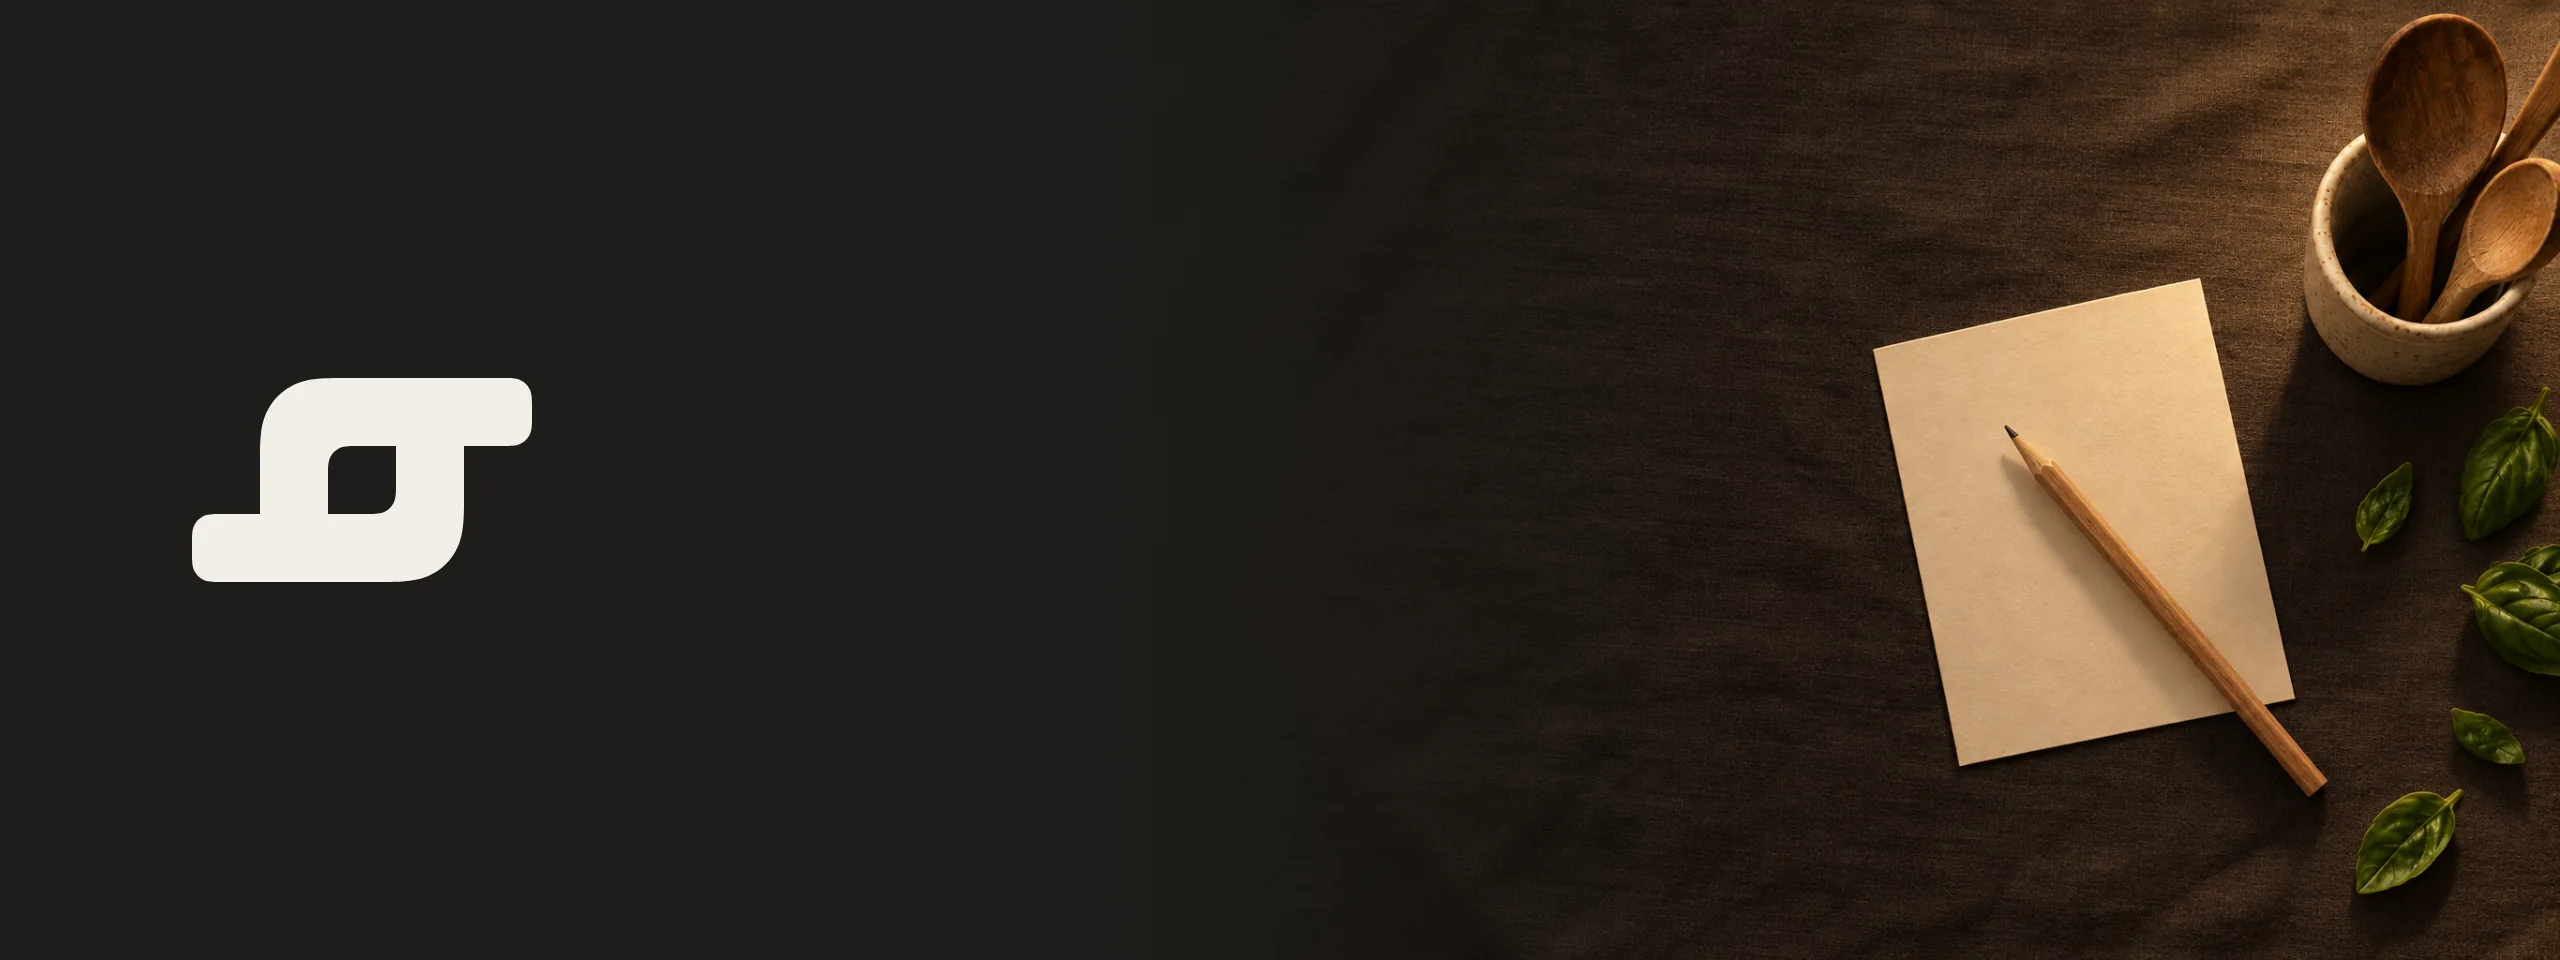
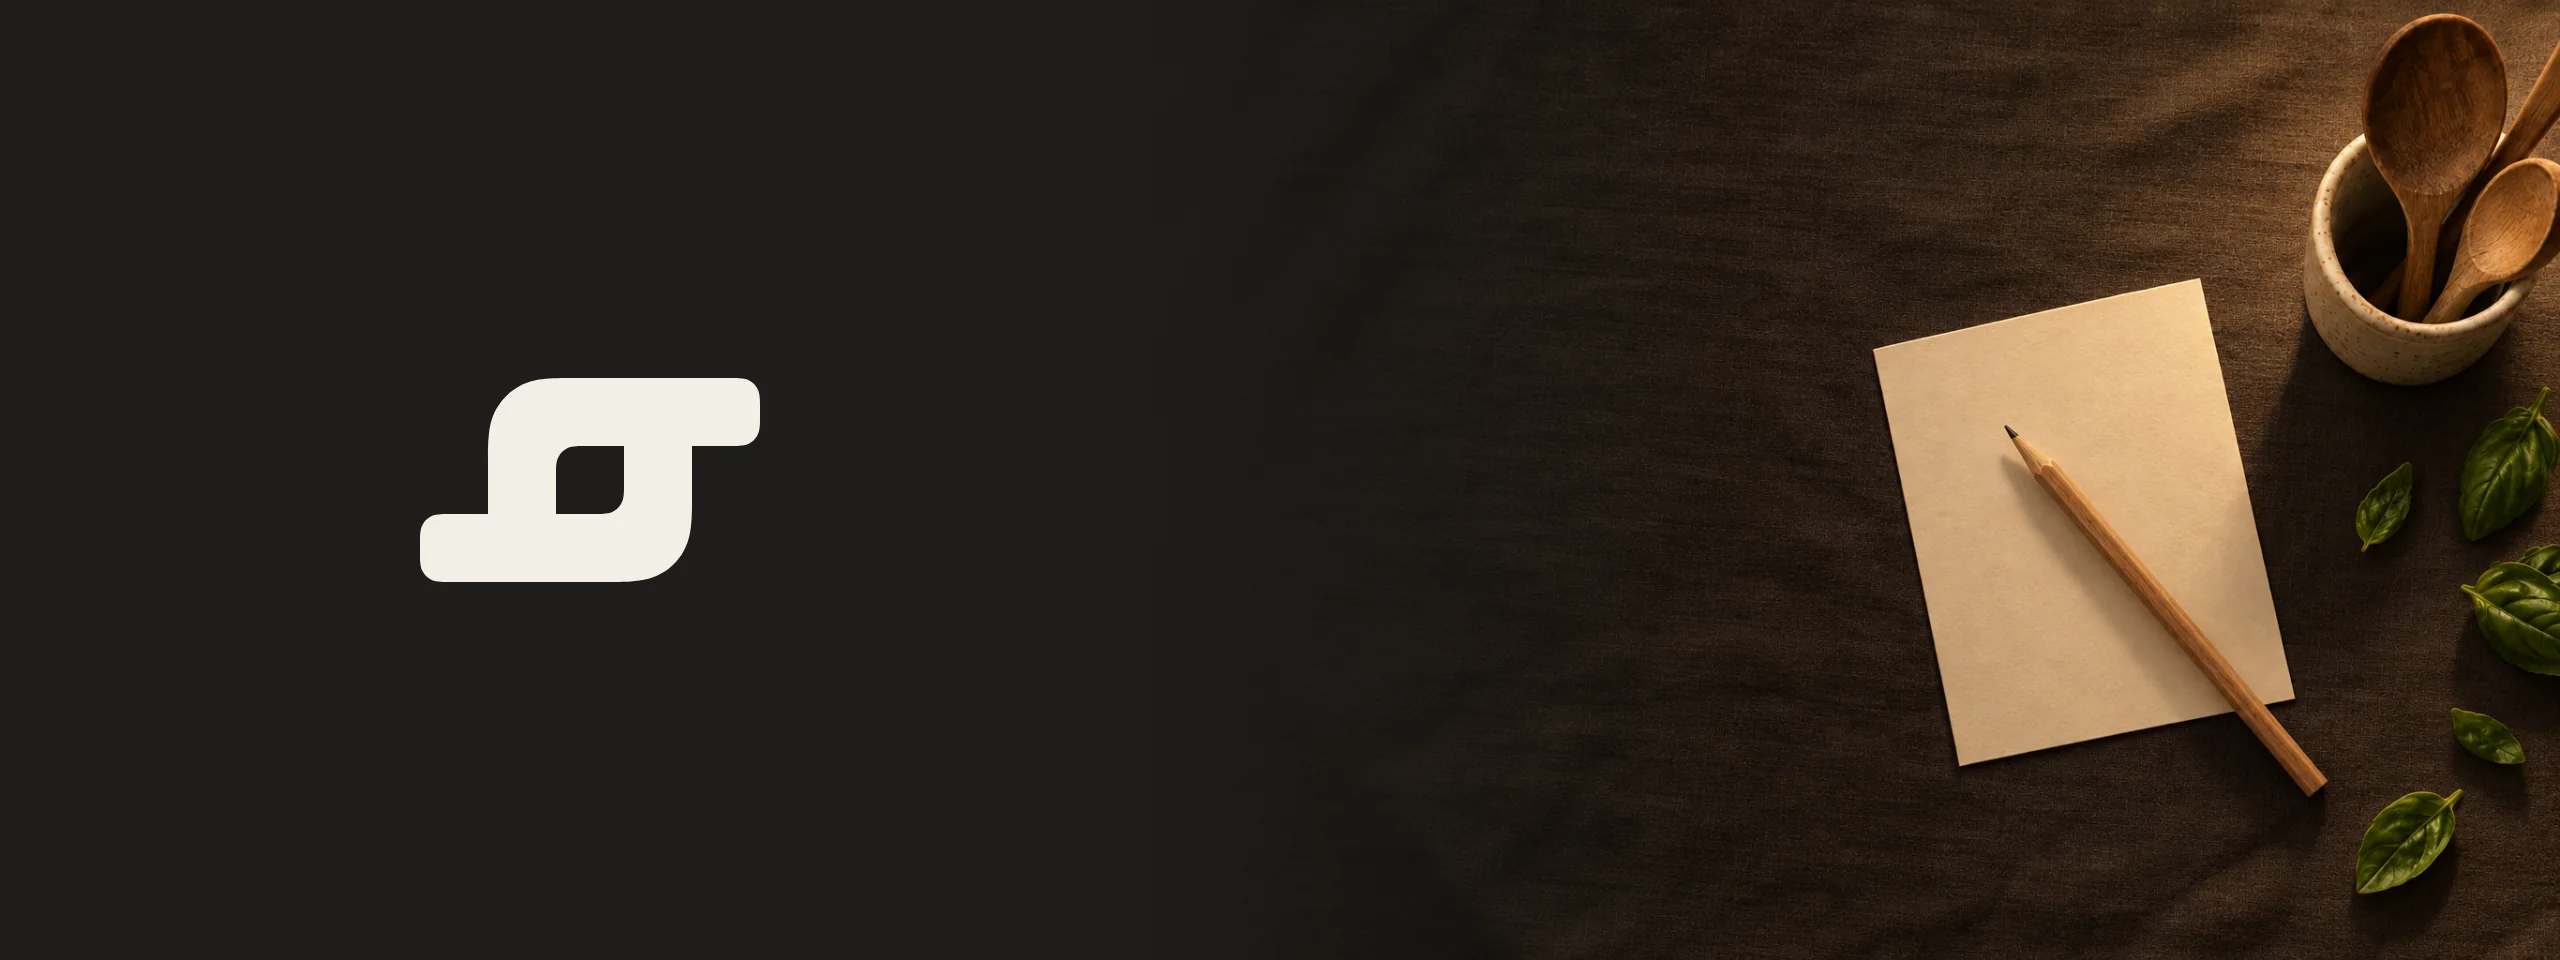
Profile: stack the two apps; headers: centre the mark; social cards: whole phones and the site headline

Changed region(s): [[0.0625, 0.375, 0.3125, 0.625]]

diff --git a/brand/tools/compose.html b/brand/tools/compose.html
@@ -53,7 +53,7 @@ const phone = (src, x, y, w, rot = 0, z = 1) => `<div class="phone shadow" style
 const still = (src) => `
     <div style="position:absolute;right:0;top:0;width:720px;height:480px"><img src="${dark ? src.replace(".png", "-dark.png") : src}" style="width:720px;height:480px;object-fit:cover"></div>
     <div class="fade" style="background:linear-gradient(90deg,var(--bone) 0,var(--bone) 560px,color-mix(in srgb,var(--bone) 0%,transparent) 860px)"></div>
-    ${mark(96, 189, 170)}
+    ${mark(210, 189, 170)}
   `;
 const A = {
   // Org profile: the kitchen table. Dinner photo on the right, paper on the left with the mark and a shelf of covers, a phone on the seam.
@@ -75,6 +75,19 @@ const A = {
       <img src="site-1440-${theme}.png" style="width:900px">
     </div>
     <div class="plate shadow" style="left:880px;top:190px;width:320px;height:320px"><img src="lemon-pasta.png" style="object-position:43% 50%;transform:scale(1.08)"></div>
+  `,
+  // Social card art for the web app: the site's headline in a narrower window, the plate at its corner.
+  webog: () => `
+    <div class="window shadow" style="left:16px;top:64px;width:680px;height:600px">
+      <div class="chrome"><i></i><i></i><i></i><span class="pill"></span></div>
+      <img src="site-1440-${theme}.png" style="width:680px">
+    </div>
+    <div class="plate shadow" style="left:262px;top:300px;width:220px;height:220px"><img src="lemon-pasta.png" style="object-position:43% 50%;transform:scale(1.08)"></div>
+  `,
+  // Social card art for Apple: two whole phones.
+  appleog: () => `
+    ${phone("phone-01-cook.png", 22, 52, 200, -3, 2)}
+    ${phone("phone-02-recipe.png", 256, 36, 200, 3, 1)}
   `,
   // Apple: the Mac window, an iPhone in front.
   apple: () => `

diff --git a/profile/README.md b/profile/README.md
@@ -11,21 +11,14 @@
 
 [**Cook a recipe now, no account needed →**](https://spoonjoy.app/test-kitchen) &nbsp;·&nbsp; [spoonjoy.app](https://spoonjoy.app) &nbsp;·&nbsp; [Support](https://spoonjoy.app/support)
 
-<table>
-  <tr>
-    <td width="50%" valign="top">
-      <a href="https://github.com/spoonjoy/spoonjoy-v2"><picture><source media="(prefers-color-scheme: dark)" srcset="https://raw.githubusercontent.com/spoonjoy/.github/main/brand/headers/spoonjoy-v2-dark.webp"><img src="https://raw.githubusercontent.com/spoonjoy/.github/main/brand/headers/spoonjoy-v2-light.webp" alt="The Spoonjoy home page in a browser window" width="100%"></picture></a>
-      <p><b><a href="https://github.com/spoonjoy/spoonjoy-v2">spoonjoy-v2</a></b><br>The web app, its API and its MCP server, on Cloudflare.</p>
-    </td>
-    <td width="50%" valign="top">
-      <a href="https://github.com/spoonjoy/spoonjoy-apple"><picture><source media="(prefers-color-scheme: dark)" srcset="https://raw.githubusercontent.com/spoonjoy/.github/main/brand/headers/spoonjoy-apple-dark.webp"><img src="https://raw.githubusercontent.com/spoonjoy/.github/main/brand/headers/spoonjoy-apple-light.webp" alt="Spoonjoy on a Mac and two iPhones" width="100%"></picture></a>
-      <p><b><a href="https://github.com/spoonjoy/spoonjoy-apple">spoonjoy-apple</a></b><br>The iPhone, iPad and Mac app, in SwiftUI. In TestFlight testing.</p>
-    </td>
-  </tr>
-</table>
+<a href="https://github.com/spoonjoy/spoonjoy-v2"><picture><source media="(prefers-color-scheme: dark)" srcset="https://raw.githubusercontent.com/spoonjoy/.github/main/brand/headers/spoonjoy-v2-dark.webp"><img src="https://raw.githubusercontent.com/spoonjoy/.github/main/brand/headers/spoonjoy-v2-light.webp" alt="The Spoonjoy home page open in a browser window, with a plate of lemon pantry pasta set beside it" width="100%"></picture></a>
+
+**[spoonjoy-v2](https://github.com/spoonjoy/spoonjoy-v2)**: the web app, its API and its MCP server, on Cloudflare.
+
+<a href="https://github.com/spoonjoy/spoonjoy-apple"><picture><source media="(prefers-color-scheme: dark)" srcset="https://raw.githubusercontent.com/spoonjoy/.github/main/brand/headers/spoonjoy-apple-dark.webp"><img src="https://raw.githubusercontent.com/spoonjoy/.github/main/brand/headers/spoonjoy-apple-light.webp" alt="Spoonjoy on a Mac showing the kitchen, with two iPhones in front: one on the Lemon Pantry Pasta recipe, one in cook mode with a ten-minute timer" width="100%"></picture></a>
+
+**[spoonjoy-apple](https://github.com/spoonjoy/spoonjoy-apple)**: the iPhone, iPad and Mac app, in SwiftUI. In internal TestFlight; not on the App Store yet.
 
 **Bring your agent.** Spoonjoy has a [REST API and an MCP server](https://spoonjoy.app/developers) at `https://spoonjoy.app/mcp`, so an agent can write recipes, sort cookbooks and fill your shopping list. Agents can start from [spoonjoy.app/llms.txt](https://spoonjoy.app/llms.txt).
 
-**Also here:** [spoonjoy-requests-issues](https://github.com/spoonjoy/spoonjoy-requests-issues) to ask for a feature or report a bug, and [redwoodjs-dbauth-oauth](https://github.com/spoonjoy/redwoodjs-dbauth-oauth), the OAuth sign-in plugin from Spoonjoy's RedwoodJS days.
-
-<sub>Spoonjoy's screens are built with [Ouro HX](https://ui.ouroboros.bot/).</sub>
+**Also here:** [spoonjoy-requests-issues](https://github.com/spoonjoy/spoonjoy-requests-issues) to ask for a feature or report a bug, and [redwoodjs-dbauth-oauth](https://github.com/spoonjoy/redwoodjs-dbauth-oauth), the OAuth sign-in plugin from Spoonjoy's RedwoodJS days. Spoonjoy's screens are built with [Ouro HX](https://ui.ouroboros.bot/).
